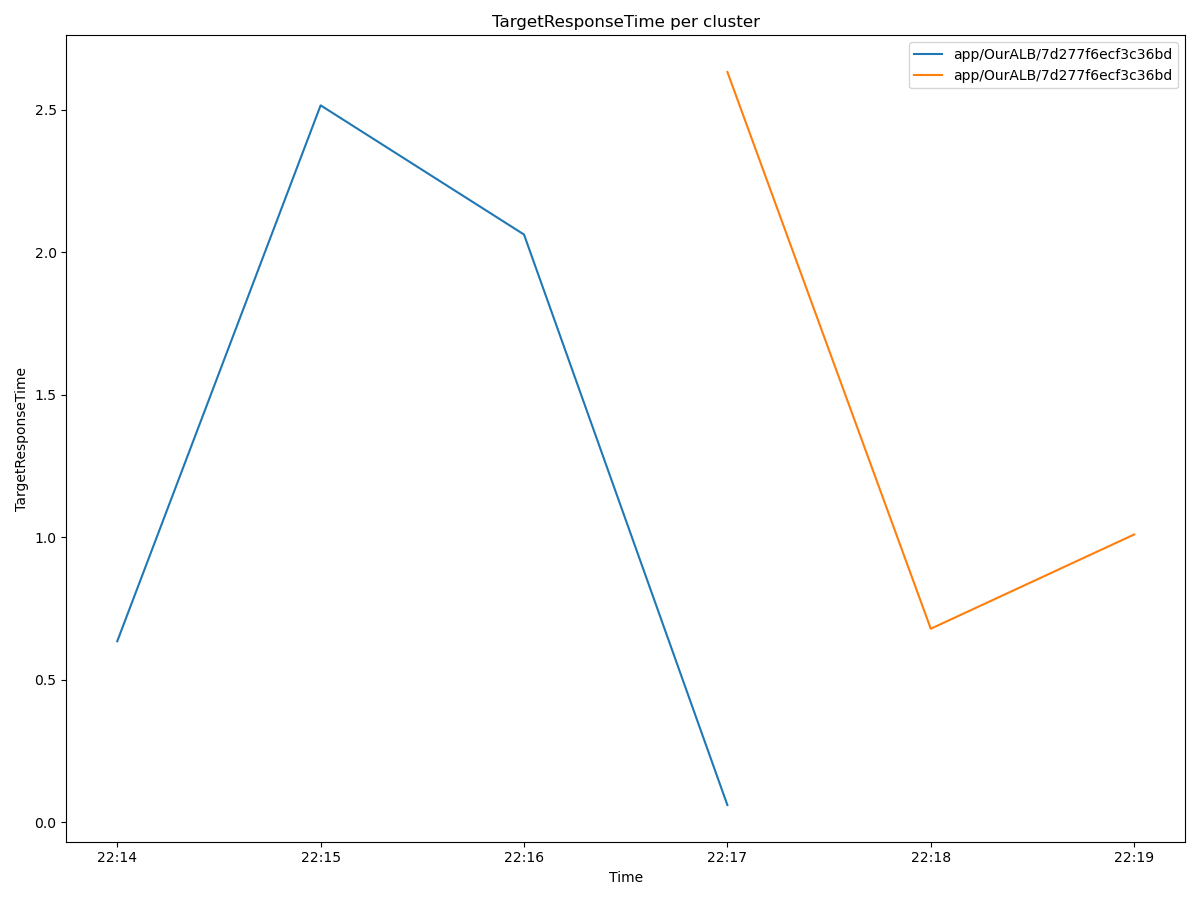
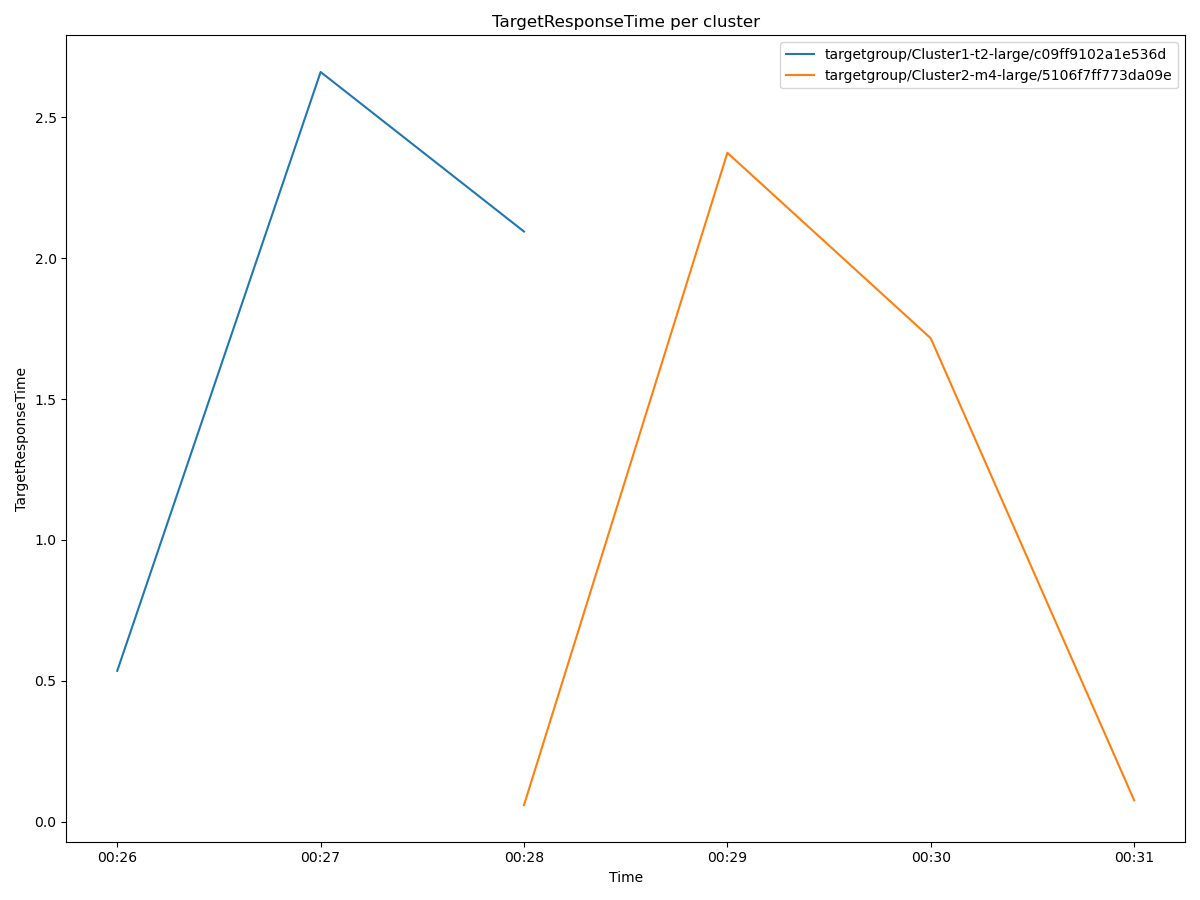
Debug metrics

diff --git a/TP1/main.py b/TP1/main.py
@@ -243,6 +243,7 @@ if __name__ == '__main__':
 
     #---------------------------------------------Plot metrics -----------------------------------------------------------------------
     #Create Cloudwatch client
+    time.sleep(120)
     Cloudwatch_client=client_cloudwatch(key_id, access_key, session_token)
 
     #Target Groups names list
@@ -252,12 +253,12 @@ if __name__ == '__main__':
     #Path to save the plots
     path='Visualizations\\'
 
-    #Function to get a dictionary of timestamps List and Cloudwatch metric Lists of target groups of an ALB in a specific time interval: 
+
+    #Function to get and plot Cloudwatch metrics per target groups of an ALB in a specific time interval: 
     def plot_metric_clusters(Cloudwatch_client,Id,MetricName,LoadBalancerarn,TargetGroups_arns_list,Start_Time, End_Time,Period,Stat,path):
             plt.figure(figsize=(12,9))
             arn_lb=LoadBalancerarn.split('/')
             arn_lb=arn_lb[1]+'/'+arn_lb[2]+'/'+arn_lb[3]
-            TargetGroups_Metrics={}
             for TargterGroup in  TargetGroups_arns_list:
                 arn_tg=TargterGroup.split(':')
                 arn_tg=arn_tg[5]
@@ -295,7 +296,7 @@ if __name__ == '__main__':
                 )
                 metric_list=Target_cloudwatch['MetricDataResults'][0]['Values'][::-1]
                 time_stamps=[t.strftime('%H:%M') for t in Target_cloudwatch['MetricDataResults'][0]['Timestamps']][::-1]
-                plt.plot(time_stamps,metric_list,label=arn_lb)
+                plt.plot(time_stamps,metric_list,label=arn_tg)
             plt.xlabel('Time')
             plt.ylabel(str(MetricName))
             plt.title(str(MetricName)+' per cluster')
@@ -305,16 +306,16 @@ if __name__ == '__main__':
 
     
     #Plot 'RequestCount' metric per cluster in the specified path
-    plot_metric_clusters(Cloudwatch_client,'metric1','RequestCount',load_balancerarn,TargetGroups_arns_list,EndTime-timedelta(minutes=6),EndTime+timedelta(minutes=2),Period,'Sum',path)
+    plot_metric_clusters(Cloudwatch_client,'metric1','RequestCount',load_balancerarn,TargetGroups_arns_list,EndTime-timedelta(minutes=10),EndTime+timedelta(minutes=2),Period,'Sum',path)
 
     #Plot 'RequestCountPerTarget' metric per cluster in the specified path
-    plot_metric_clusters(Cloudwatch_client,'metric2','RequestCountPerTarget',load_balancerarn,TargetGroups_arns_list,EndTime-timedelta(minutes=6),EndTime+timedelta(minutes=2),Period,'Sum',path)
+    plot_metric_clusters(Cloudwatch_client,'metric2','RequestCountPerTarget',load_balancerarn,TargetGroups_arns_list,EndTime-timedelta(minutes=10),EndTime+timedelta(minutes=2),Period,'Sum',path)
 
     #Plot 'TargetResponseTime' metric per cluster in the specified path
-    plot_metric_clusters(Cloudwatch_client,'metric3','TargetResponseTime',load_balancerarn,TargetGroups_arns_list,EndTime-timedelta(minutes=6),EndTime+timedelta(minutes=2),Period,'Sum',path)
+    plot_metric_clusters(Cloudwatch_client,'metric3','TargetResponseTime',load_balancerarn,TargetGroups_arns_list,EndTime-timedelta(minutes=10),EndTime+timedelta(minutes=2),Period,'Sum',path)
     
     #Plot 'Healthy Hosts' metric per cluster in the specified path
-    plot_metric_clusters(Cloudwatch_client,'metric4','HealthyHostCount',load_balancerarn,TargetGroups_arns_list,EndTime-timedelta(minutes=6),EndTime+timedelta(minutes=2),Period,'Minimum',path)
+    plot_metric_clusters(Cloudwatch_client,'metric4','HealthyHostCount',load_balancerarn,TargetGroups_arns_list,EndTime-timedelta(minutes=10),EndTime+timedelta(minutes=2),Period,'Minimum',path)
 
     #Instances Ids of TG1
     Instances_Ids_TG1=[Instance for Instance in instances_t2 ]
@@ -329,3 +330,41 @@ if __name__ == '__main__':
     plot_Instances_metrics_per_cluster(Cloudwatch_client,'metric7',TargetGroup1_name,'NetworkPacketsIn',Instances_Ids_TG1,EndTime-timedelta(minutes=60), EndTime,Period,'Sum',path)
     plot_Instances_metrics_per_cluster(Cloudwatch_client,'metric8',TargetGroup2_name,'NetworkPacketsIn',Instances_Ids_TG2,EndTime-timedelta(minutes=60), EndTime,Period,'Sum',path)
     
+    #Function to get and plot instances metrics per cluster and save it in a graph: 
+    def plot_Instances_metrics_per_cluster(Cloudwatch_client,Id,Cluster_name,MetricName,Instances_Ids,Start_Time, End_Time,Period,Stat,path):
+            plt.figure(figsize=(12,9))
+            for i in range(len(Instances_Ids)) :
+                EC2_Id=Instances_Ids[i]
+                EC2_Cloudwatch=Cloudwatch_client.get_metric_data(
+                    MetricDataQueries=[
+                        {
+                            'Id':Id,
+                            'MetricStat':{
+                                'Metric':{
+                                    'Namespace': 'AWS/EC2',
+                                    'MetricName':MetricName,
+                                    'Dimensions':[{'Name':'InstanceId',
+                                            'Value': EC2_Id
+                                            
+                                        }
+                                    ]
+                                },
+                            'Stat':Stat,
+                            'Period':Period,
+
+                            },
+                            'ReturnData':True,
+                        },
+                    ],
+                    StartTime=Start_Time,
+                    EndTime=End_Time
+                    )
+                metric=EC2_Cloudwatch['MetricDataResults'][0]['Values']
+                timestimps=EC2_Cloudwatch['MetricDataResults'][0]['Timestamps']
+                plt.plot(timestimps,metric,label=Cluster_name+' EC2_Id= '+EC2_Id)
+                plt.xlabel('Time')
+                plt.ylabel(str(MetricName)+' per instance')
+                plt.title('EC2 Instances '+str(MetricName)+ ' of: '+Cluster_name)
+                plt.legend(loc='upper right')
+                plt.tight_layout()
+                plt.savefig(path+'EC2_Instances_'+str(MetricName)+'_of_'+Cluster_name+'.png')
